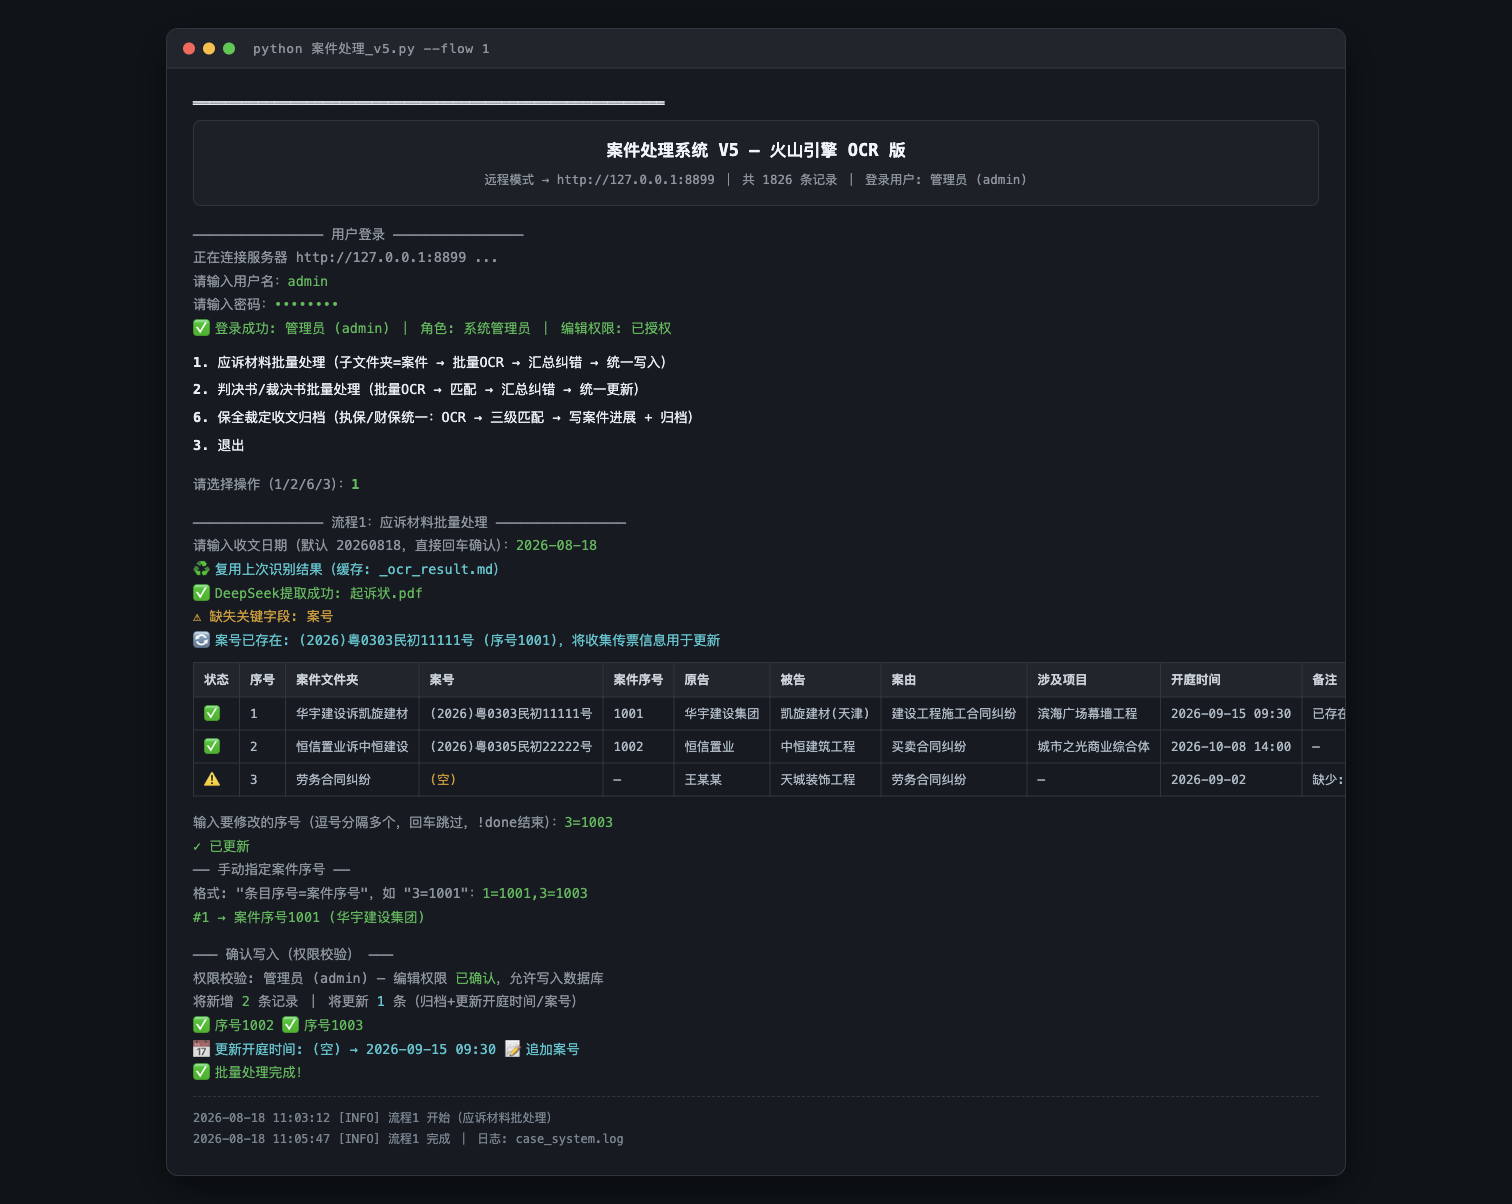
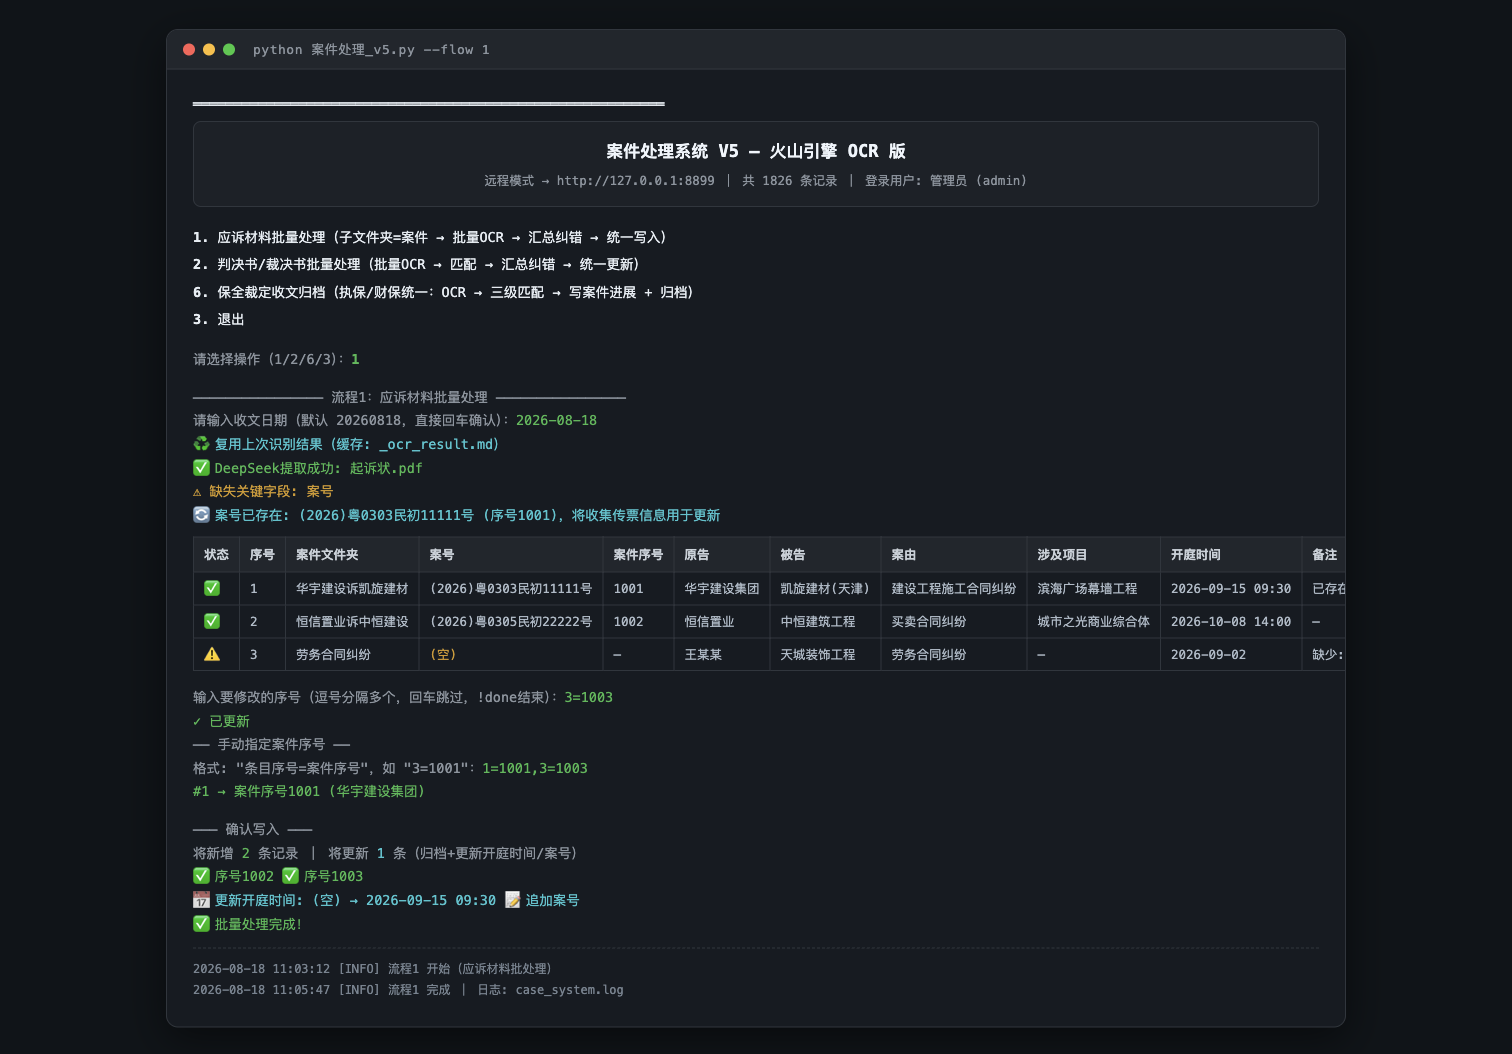
预览图恢复运行截图版；README 新增「登录与权限」说明（登录密码+编辑权限）

Changed region(s): [[0.1243, 0.1822, 0.9015, 0.9715], [0.1243, 0.0304, 0.6839, 0.1822]]

diff --git a/docs/preview.html b/docs/preview.html
@@ -76,12 +76,6 @@
       <div class="t2">远程模式 → http://127.0.0.1:8899 ｜ 共 1826 条记录 ｜ 登录用户: 管理员 (admin)</div>
     </div>
 
-    <div class="dim">──────────────── 用户登录 ────────────────</div>
-    <div><span class="dim">正在连接服务器 http://127.0.0.1:8899 ...</span></div>
-    <div><span class="dim">请输入用户名：</span><span class="green">admin</span></div>
-    <div><span class="dim">请输入密码：</span><span class="green">••••••••</span></div>
-    <div><span class="green">✅ 登录成功: 管理员 (admin) ｜ 角色: 系统管理员 ｜ 编辑权限: 已授权</span></div>
-
     <div class="menu">
       <div><span class="bold">1.</span> 应诉材料批量处理（子文件夹=案件 → 批量OCR → 汇总纠错 → 统一写入）</div>
       <div><span class="bold">2.</span> 判决书/裁决书批量处理（批量OCR → 匹配 → 汇总纠错 → 统一更新）</div>
@@ -110,8 +104,7 @@
     <div><span class="dim">格式: "条目序号=案件序号"，如 "3=1001"：</span><span class="green">1=1001,3=1003</span></div>
     <div><span class="green">  #1 → 案件序号1001 (华宇建设集团)</span></div>
 
-    <div class="dim" style="margin-top:14px">─── 确认写入（权限校验） ───</div>
-    <div><span class="dim">权限校验: 管理员 (admin) — 编辑权限 <span class="green">已确认</span>，允许写入数据库</span></div>
+    <div class="dim" style="margin-top:14px">─── 确认写入 ───</div>
     <div><span class="dim">将新增 <span class="green">2</span> 条记录 ｜ 将更新 <span class="cyan">1</span> 条（归档+更新开庭时间/案号）</span></div>
     <div><span class="green">✅ 序号1002  ✅ 序号1003</span></div>
     <div><span class="cyan">📅 更新开庭时间: (空) → 2026-09-15 09:30  📝 追加案号</span></div>

diff --git a/README.md b/README.md
@@ -28,6 +28,14 @@
 - [火山引擎 OCR](https://www.volcengine.com/product/ocr) 账号（AK/SK）
 - [DeepSeek](https://platform.deepseek.com/) API Key
 
+## 登录与权限
+
+系统连接远程案件管理服务器，**所有操作均需登录**：
+
+- **登录密码**：启动后需输入用户名 / 密码登录（凭据在 `.env` 的 `LOGIN_USERNAME` / `LOGIN_PASSWORD` 中配置，或使用服务器分配的账号）。未登录时无法进入操作菜单。
+- **编辑权限**：新增案件、更新案件进展、登记付款计划、归档文件等**所有写操作**都需要管理员角色的编辑权限，由服务器端校验（会话令牌失效或权限不足时返回 403 并提示重新登录）。
+- **只读安全**：会话令牌仅保存在内存中，不落盘；退出程序即失效。
+
 ## 快速开始
 
 ### 1. 下载与配置
